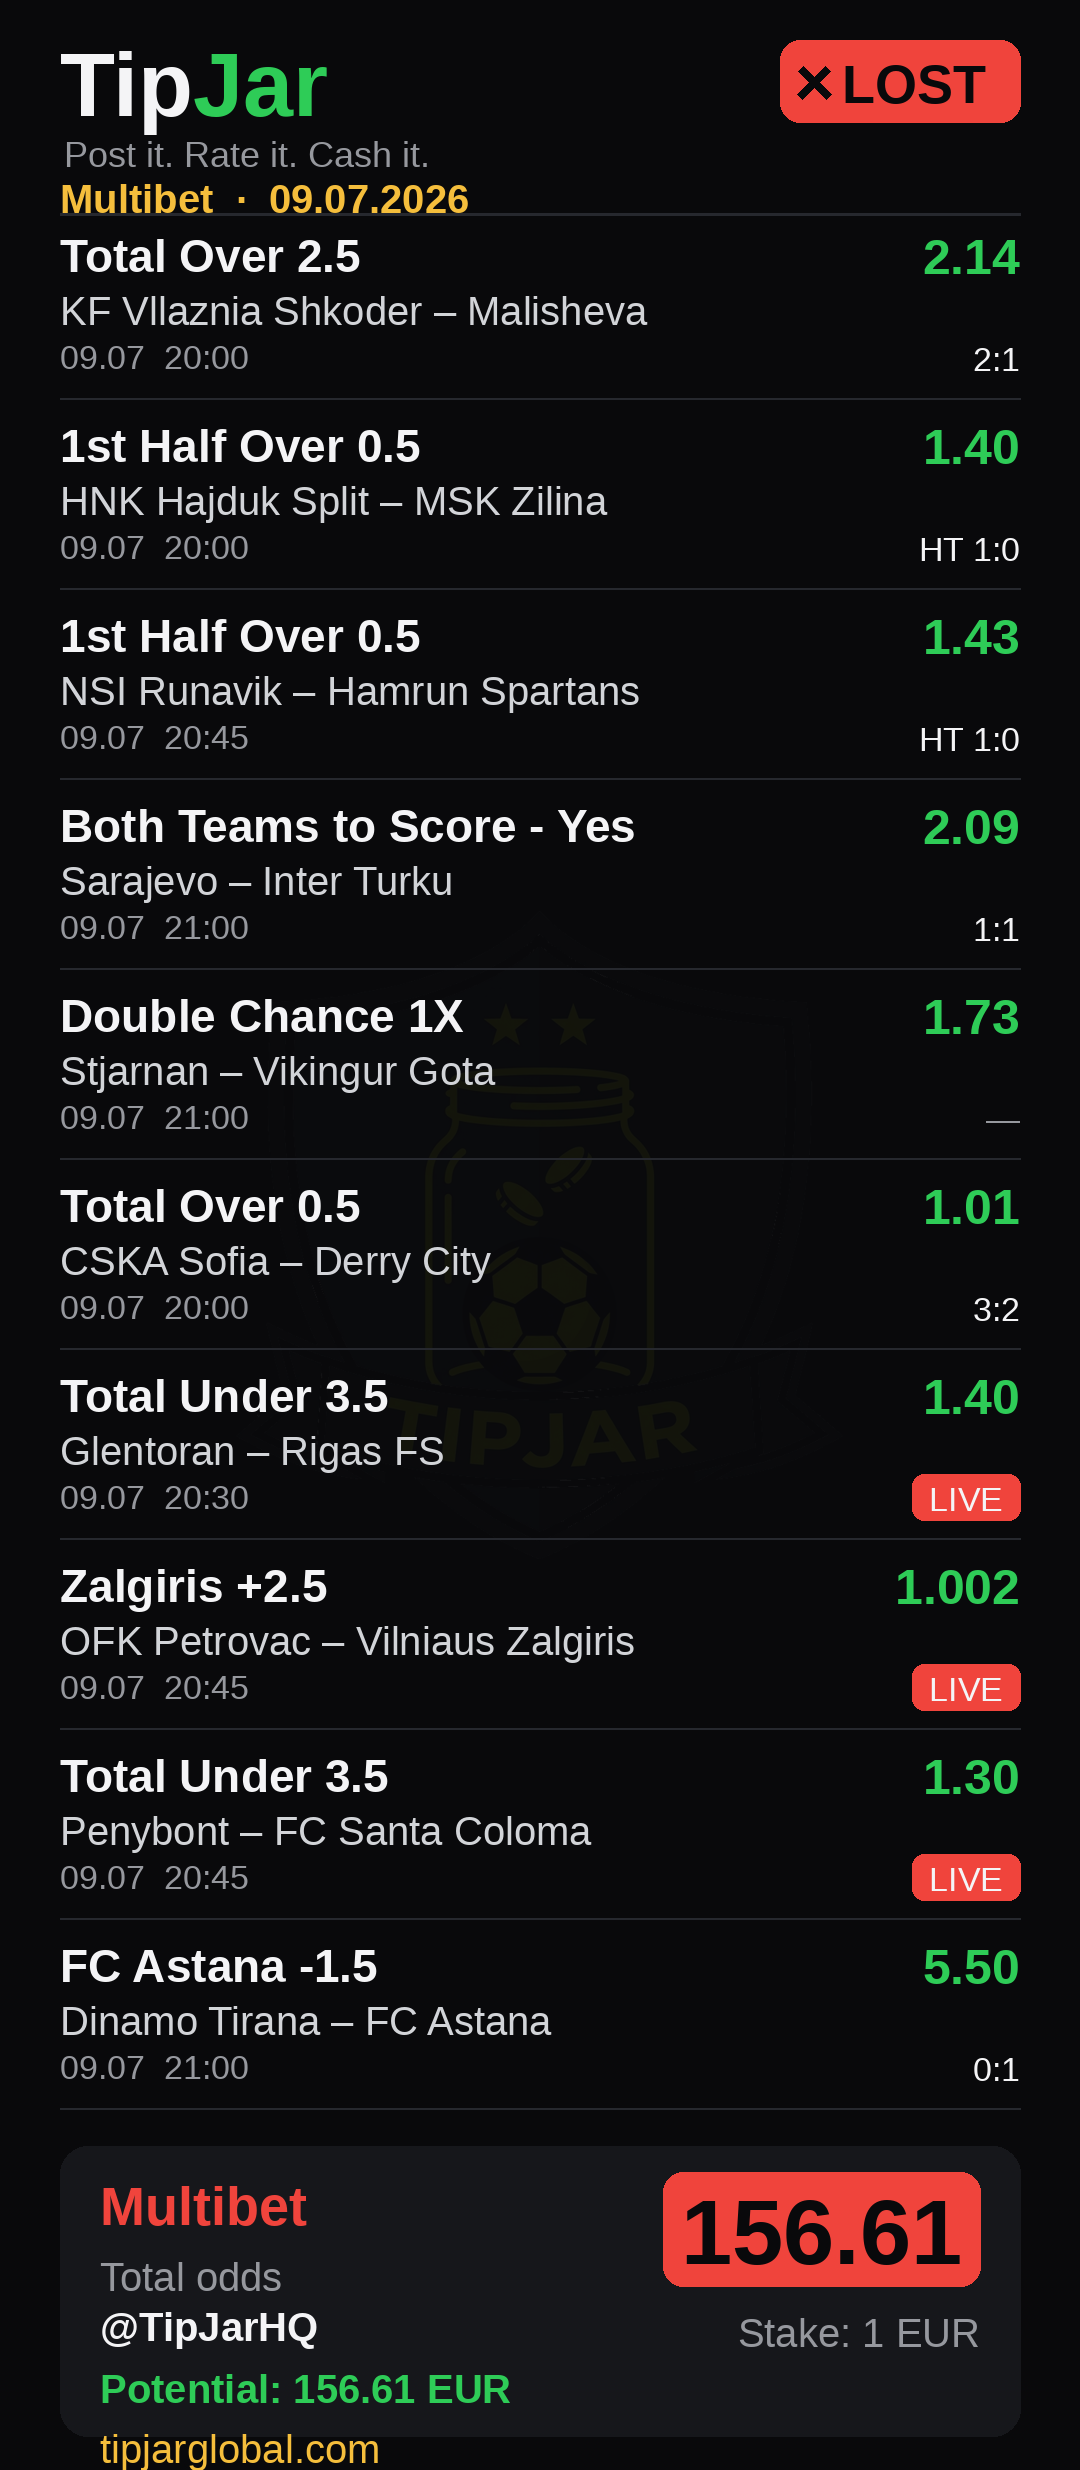
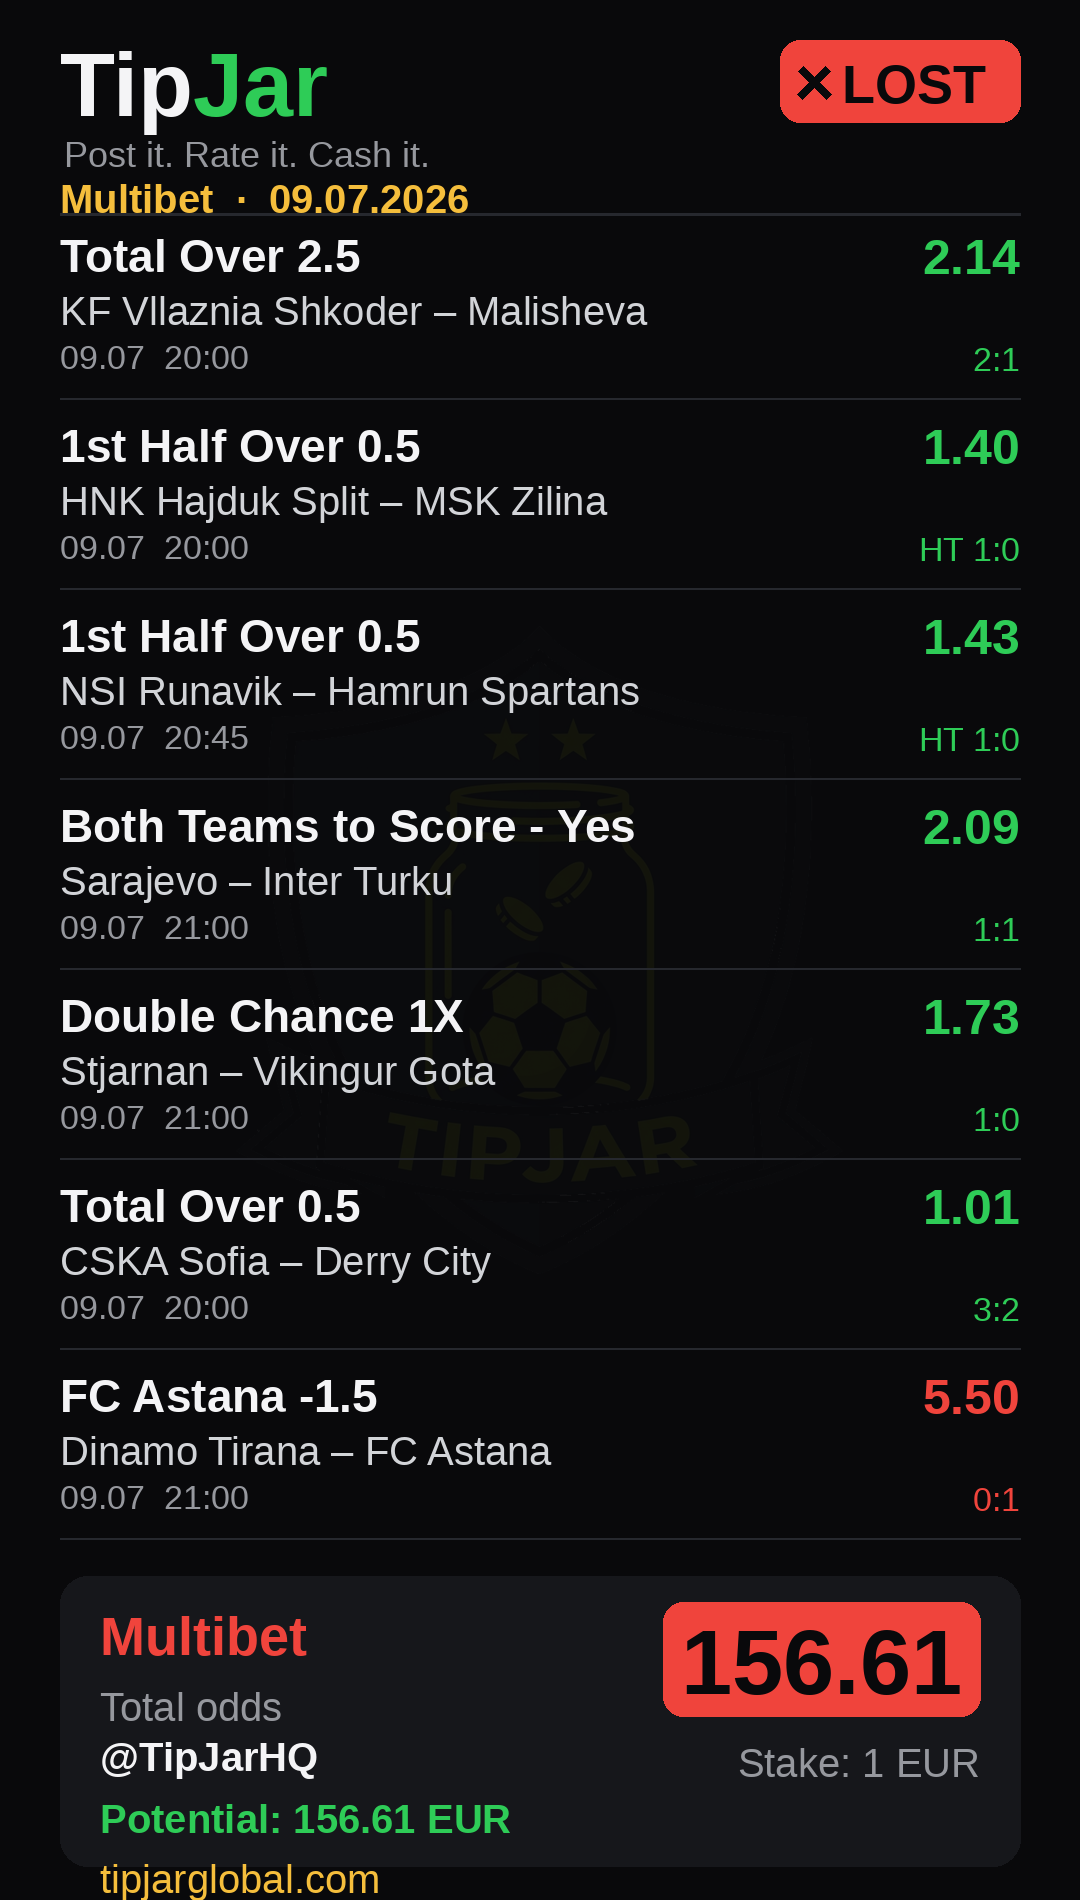
auto-commit for b320c479-56ab-477c-9a95-dab55eb3664f

diff --git a/scripts/render_ad_slips.py b/scripts/render_ad_slips.py
@@ -1,5 +1,5 @@
-"""One-off: render two TipJar-branded 'LOST' multibet slip PNGs for external ads.
-Faithful transcription of the user's BetScore slips (games exactly as written)."""
+"""TipJar-branded 'LOST' multibet slip PNGs for external ads.
+Per-leg colour: green=won, red=lost. Live/undecided legs removed."""
 from PIL import Image, ImageDraw, ImageFont
 
 FB = "/usr/share/fonts/truetype/liberation/LiberationSans-Bold.ttf"
@@ -40,7 +40,6 @@ def render(legs, total_odds, stake, potential, out_path, subtitle):
     f_tag = font(FR, 36)
     f_badge = font(FB, 54)
     f_sub = font(FB, 40)
-    f_market = font(FB, 46)
     f_teams = font(FR, 40)
     f_meta = font(FR, 34)
     f_odd = font(FB, 50)
@@ -51,13 +50,12 @@ def render(legs, total_odds, stake, potential, out_path, subtitle):
 
     head_h = 230
     foot_h = 340
-    row_h = 190  # per leg block
+    row_h = 190
 
     H = head_h + len(legs) * row_h + foot_h
     img = Image.new("RGB", (W, H), VOID)
     d = ImageDraw.Draw(img)
 
-    # faint crest watermark
     try:
         crest = Image.open(CREST).convert("RGBA")
         cw = int(W * 0.6)
@@ -74,55 +72,39 @@ def render(legs, total_odds, stake, potential, out_path, subtitle):
     d.text((pad + tw, 34), "Jar", font=f_logo, fill=GREEN)
     d.text((pad + 4, 134), "Post it. Rate it. Cash it.", font=f_tag, fill=GREY)
 
-    # LOST badge (red, top-right)
     badge = "LOST"
     bw = d.textlength(badge, font=f_badge)
     bx0 = W - pad - bw - 96
     d.rounded_rectangle([bx0, 40, W - pad, 122], 20, fill=RED)
-    # X mark
     cx, cy = bx0 + 34, 82
     d.line([(cx - 14, cy - 14), (cx + 14, cy + 14)], fill=VOID, width=8)
     d.line([(cx - 14, cy + 14), (cx + 14, cy - 14)], fill=VOID, width=8)
     d.text((bx0 + 62, 54), badge, font=f_badge, fill=VOID)
 
-    # subtitle
     d.text((pad, 176), subtitle, font=f_sub, fill=AMBER)
     d.line([pad, head_h - 16, W - pad, head_h - 16], fill=LINE, width=3)
 
     y = head_h
     for lg in legs:
-        # market + odd row
+        col = GREEN if lg["status"] == "won" else RED
         odd = lg["odd"]
         ow = d.textlength(odd, font=f_odd)
         mkt_f = fit(lg["market"], FB, 46, 30, W - 2 * pad - ow - 40)
         d.text((pad, y), lg["market"], font=mkt_f, fill=WHITE)
-        d.text((W - pad - ow, y - 2), odd, font=f_odd, fill=GREEN)
+        d.text((W - pad - ow, y - 2), odd, font=f_odd, fill=col)
         y += 58
-        # teams
-        teams = f"{lg['home']} – {lg['away']}"
+        teams = f"{lg['home']} \u2013 {lg['away']}"
         tf = fit(teams, FR, 40, 26, W - 2 * pad)
         d.text((pad, y), teams, font=tf, fill=(210, 212, 216))
         y += 50
-        # meta + result chip
         d.text((pad, y), lg["time"], font=f_meta, fill=GREY)
         res = lg["result"]
-        if res == "LIVE":
-            chip, col = "LIVE", RED
-        elif res == "-":
-            chip, col = "—", GREY
-        else:
-            chip, col = res, WHITE
-        cw2 = d.textlength(chip, font=f_meta)
-        if res == "LIVE":
-            d.rounded_rectangle([W - pad - cw2 - 34, y - 4, W - pad, y + 42], 12, fill=RED)
-            d.text((W - pad - cw2 - 17, y + 2), chip, font=f_meta, fill=WHITE)
-        else:
-            d.text((W - pad - cw2, y + 2), chip, font=f_meta, fill=col)
+        rw = d.textlength(res, font=f_meta)
+        d.text((W - pad - rw, y + 2), res, font=f_meta, fill=col)
         y += 60
         d.line([pad, y, W - pad, y], fill=LINE, width=2)
         y += 22
 
-    # footer card
     fy = y + 16
     d.rounded_rectangle([pad, fy, W - pad, H - 34], 28, fill=CARD)
     d.text((pad + 40, fy + 30), "Multibet", font=f_lblB, fill=RED)
@@ -142,35 +124,27 @@ def render(legs, total_odds, stake, potential, out_path, subtitle):
     print("saved", out_path, img.size)
 
 
+# LIVE / undecided legs removed. Green = won, Red = lost.
 slip1 = [
-    {"market": "Total Over 2.5", "home": "KF Vllaznia Shkoder", "away": "Malisheva", "time": "09.07  20:00", "odd": "2.14", "result": "2:1"},
-    {"market": "1st Half Over 0.5", "home": "HNK Hajduk Split", "away": "MSK Zilina", "time": "09.07  20:00", "odd": "1.40", "result": "HT 1:0"},
-    {"market": "1st Half Over 0.5", "home": "NSI Runavik", "away": "Hamrun Spartans", "time": "09.07  20:45", "odd": "1.43", "result": "HT 1:0"},
-    {"market": "Both Teams to Score - Yes", "home": "Sarajevo", "away": "Inter Turku", "time": "09.07  21:00", "odd": "2.09", "result": "1:1"},
-    {"market": "Double Chance 1X", "home": "Stjarnan", "away": "Vikingur Gota", "time": "09.07  21:00", "odd": "1.73", "result": "-"},
-    {"market": "Total Over 0.5", "home": "CSKA Sofia", "away": "Derry City", "time": "09.07  20:00", "odd": "1.01", "result": "3:2"},
-    {"market": "Total Under 3.5", "home": "Glentoran", "away": "Rigas FS", "time": "09.07  20:30", "odd": "1.40", "result": "LIVE"},
-    {"market": "Zalgiris +2.5", "home": "OFK Petrovac", "away": "Vilniaus Zalgiris", "time": "09.07  20:45", "odd": "1.002", "result": "LIVE"},
-    {"market": "Total Under 3.5", "home": "Penybont", "away": "FC Santa Coloma", "time": "09.07  20:45", "odd": "1.30", "result": "LIVE"},
-    {"market": "FC Astana -1.5", "home": "Dinamo Tirana", "away": "FC Astana", "time": "09.07  21:00", "odd": "5.50", "result": "0:1"},
+    {"market": "Total Over 2.5", "home": "KF Vllaznia Shkoder", "away": "Malisheva", "time": "09.07  20:00", "odd": "2.14", "result": "2:1", "status": "won"},
+    {"market": "1st Half Over 0.5", "home": "HNK Hajduk Split", "away": "MSK Zilina", "time": "09.07  20:00", "odd": "1.40", "result": "HT 1:0", "status": "won"},
+    {"market": "1st Half Over 0.5", "home": "NSI Runavik", "away": "Hamrun Spartans", "time": "09.07  20:45", "odd": "1.43", "result": "HT 1:0", "status": "won"},
+    {"market": "Both Teams to Score - Yes", "home": "Sarajevo", "away": "Inter Turku", "time": "09.07  21:00", "odd": "2.09", "result": "1:1", "status": "won"},
+    {"market": "Double Chance 1X", "home": "Stjarnan", "away": "Vikingur Gota", "time": "09.07  21:00", "odd": "1.73", "result": "1:0", "status": "won"},
+    {"market": "Total Over 0.5", "home": "CSKA Sofia", "away": "Derry City", "time": "09.07  20:00", "odd": "1.01", "result": "3:2", "status": "won"},
+    {"market": "FC Astana -1.5", "home": "Dinamo Tirana", "away": "FC Astana", "time": "09.07  21:00", "odd": "5.50", "result": "0:1", "status": "lost"},
 ]
 
 slip2 = [
-    {"market": "Total Over 2.5", "home": "US Mondorf-Les-Bains", "away": "Dinamo Tbilisi", "time": "09.07  19:15", "odd": "1.95", "result": "1:2"},
-    {"market": "Total Over 2.5", "home": "Caernarfon", "away": "FCI Levadia", "time": "09.07  19:30", "odd": "1.58", "result": "-"},
-    {"market": "Total Over 2.5", "home": "CE Europa", "away": "Shkendija Tetovo", "time": "09.07  19:30", "odd": "2.16", "result": "0:5"},
-    {"market": "Total Under 2.5", "home": "Atletic Club Escaldes", "away": "FK Mornar Bar", "time": "09.07  16:00", "odd": "1.67", "result": "-"},
-    {"market": "Paide Over 2.5", "home": "Hegelmann", "away": "Paide Linnameeskond", "time": "09.07  18:00", "odd": "1.03", "result": "LIVE"},
-    {"market": "SS Virtus Over 3.5", "home": "FC Dila Gori", "away": "SS Virtus", "time": "09.07  18:00", "odd": "1.22", "result": "LIVE"},
-    {"market": "Qarabag -1.5", "home": "Qarabag", "away": "IF Vestri", "time": "09.07  18:00", "odd": "1.19", "result": "LIVE"},
-    {"market": "Total Under 2.5", "home": "Alashkert", "away": "Elimai", "time": "09.07  18:00", "odd": "1.60", "result": "1:1"},
-    {"market": "Univ. Cluj Over 3.5", "home": "Dynamo Kyiv", "away": "Universitatea Cluj", "time": "09.07  19:00", "odd": "1.07", "result": "0:0"},
-    {"market": "St. Joseph's Over 3.5", "home": "Bohemians", "away": "St. Joseph's", "time": "09.07  19:00", "odd": "1.20", "result": "2:0"},
-    {"market": "Total Under 2.5", "home": "Dinamo Minsk", "away": "Sileks", "time": "09.07  19:00", "odd": "1.70", "result": "LIVE"},
-    {"market": "Total Under 3.5", "home": "Velez Mostar", "away": "FC Milsami", "time": "09.07  19:00", "odd": "1.17", "result": "1:1"},
-    {"market": "Sheriff Tiraspol -1.5", "home": "Sheriff Tiraspol", "away": "Aluminij", "time": "09.07  19:00", "odd": "1.95", "result": "LIVE"},
-    {"market": "Total Under 2.5", "home": "Marsaxlokk FC", "away": "Pyunik Yerevan", "time": "09.07  19:00", "odd": "1.65", "result": "LIVE"},
+    {"market": "Total Over 2.5", "home": "US Mondorf-Les-Bains", "away": "Dinamo Tbilisi", "time": "09.07  19:15", "odd": "1.95", "result": "1:2", "status": "won"},
+    {"market": "Total Over 2.5", "home": "Caernarfon", "away": "FCI Levadia", "time": "09.07  19:30", "odd": "1.58", "result": "3:1", "status": "won"},
+    {"market": "Total Over 2.5", "home": "CE Europa", "away": "Shkendija Tetovo", "time": "09.07  19:30", "odd": "2.16", "result": "0:5", "status": "won"},
+    {"market": "Total Under 2.5", "home": "Atletic Club Escaldes", "away": "FK Mornar Bar", "time": "09.07  16:00", "odd": "1.67", "result": "3:2", "status": "lost"},
+    {"market": "Total Under 2.5", "home": "Alashkert", "away": "Elimai", "time": "09.07  18:00", "odd": "1.60", "result": "1:1", "status": "won"},
+    {"market": "Univ. Cluj 3.5", "home": "Dynamo Kyiv", "away": "Universitatea Cluj", "time": "09.07  19:00", "odd": "1.07", "result": "0:0", "status": "won"},
+    {"market": "St. Joseph's 3.5", "home": "Bohemians", "away": "St. Joseph's", "time": "09.07  19:00", "odd": "1.20", "result": "2:0", "status": "won"},
+    {"market": "Total Under 3.5", "home": "Velez Mostar", "away": "FC Milsami", "time": "09.07  19:00", "odd": "1.17", "result": "1:1", "status": "won"},
 ]
 
-render(slip1, 156.61, "1 EUR", "156.61 EUR", "/app/frontend/public/tipjar-slip-1.png", "Multibet  ·  09.07.2026")
-render(slip2, 234.05, "1 EUR", "234.05 EUR", "/app/frontend/public/tipjar-slip-2.png", "Multibet  ·  09.07.2026")
+render(slip1, 156.61, "1 EUR", "156.61 EUR", "/app/frontend/public/tipjar-slip-1.png", "Multibet  \u00b7  09.07.2026")
+render(slip2, 234.05, "1 EUR", "234.05 EUR", "/app/frontend/public/tipjar-slip-2.png", "Multibet  \u00b7  09.07.2026")
